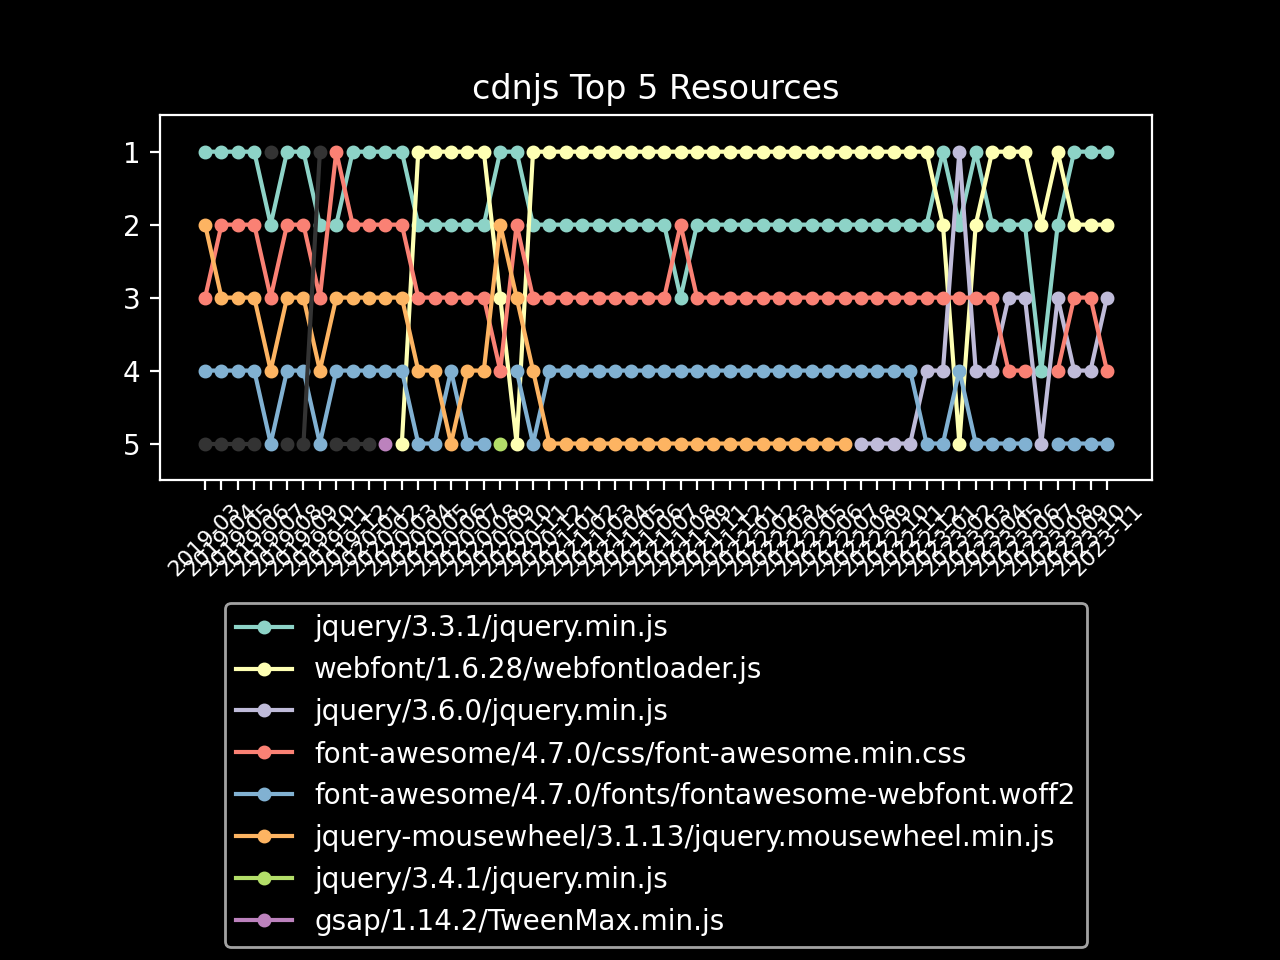
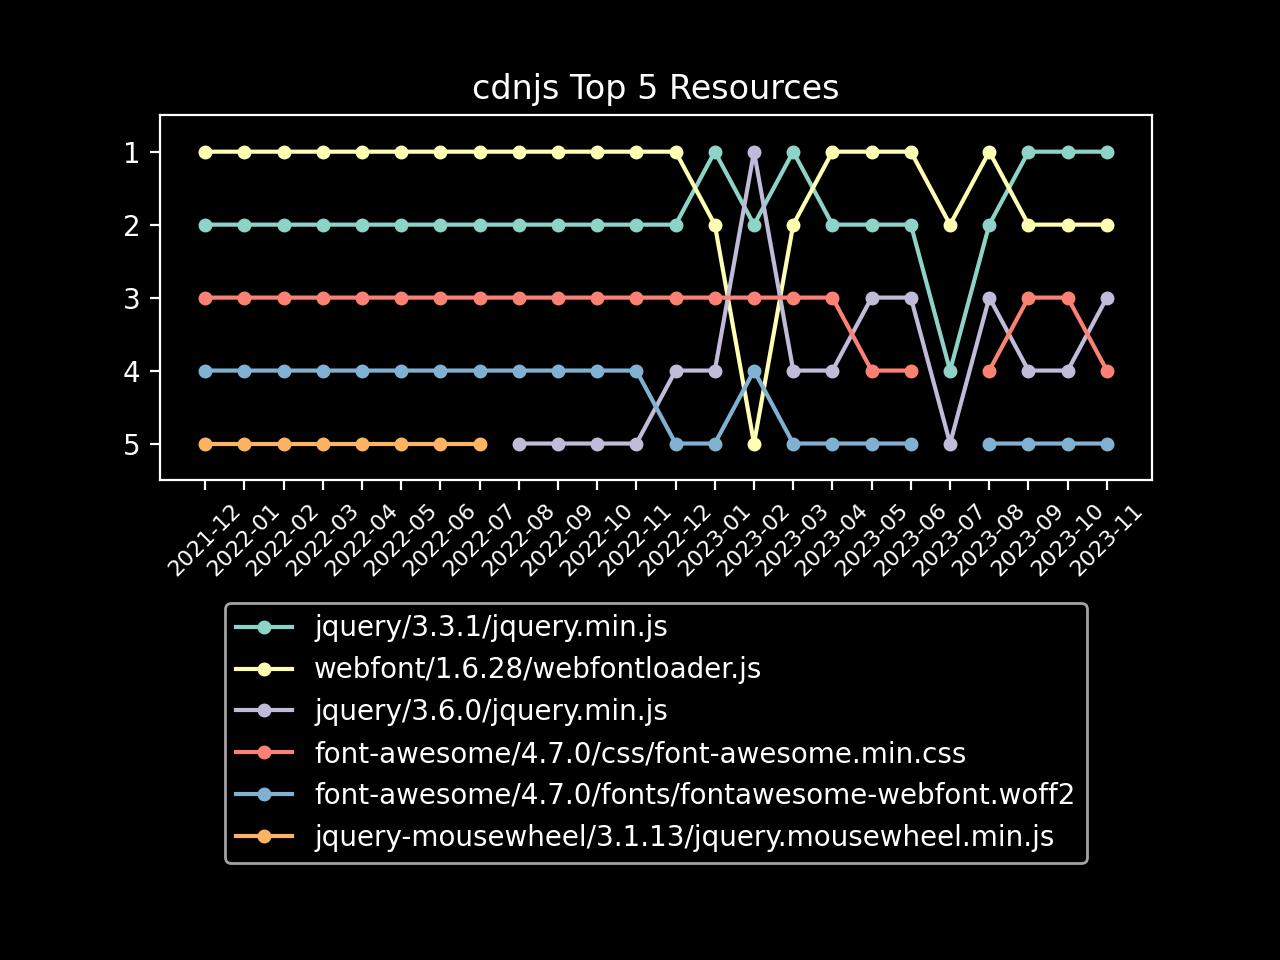
Restrict historical data for top 5 graphs

Changed region(s): [[0.1562, 0.125, 0.875, 0.4688], [0.125, 0.5, 0.875, 0.625], [0.1875, 0.875, 0.5625, 1.0]]

diff --git a/graph.py b/graph.py
@@ -18,6 +18,28 @@ def fn(item):
     return "{}/{}/{}".format(item["library"], item["version"], item["file"])
 
 
+# Year/month where restrictions
+def limit_ym(months):
+    # Get the current month and year
+    now = datetime.now()
+    year = now.year
+    month = now.month
+
+    # Allow for x months of data
+    where = []
+    while months:
+        if months >= month:
+            where.append("year = {}".format(year))
+            months -= month
+            year -= 1
+            month = 12
+        else:
+            where.append("year = {} AND month >= {}".format(year, month - months + 1))
+            months = 0
+    
+    return " OR ".join(["({})".format(x) for x in where])
+
+
 def top_5_graph(data_by_month, limit, title, filename):
     # Find every item in the top x across the months
     all_items = set()
@@ -78,7 +100,7 @@ def top_5_resources():
     conn = sqlite3.connect("data.db")
     conn.row_factory = sqlite3.Row
     c = conn.cursor()
-    c.execute("SELECT * FROM DATA")
+    c.execute("SELECT * FROM DATA WHERE {}".format(limit_ym(25)))
     rows = c.fetchall()
 
     # Compile the data by each month (year-month)
@@ -116,7 +138,7 @@ def top_5_libraries():
     conn = sqlite3.connect("data.db")
     conn.row_factory = sqlite3.Row
     c = conn.cursor()
-    c.execute("SELECT * FROM libraries")
+    c.execute("SELECT * FROM libraries WHERE {}".format(limit_ym(25)))
     rows = c.fetchall()
 
     # Compile the data by each month (year-month)
